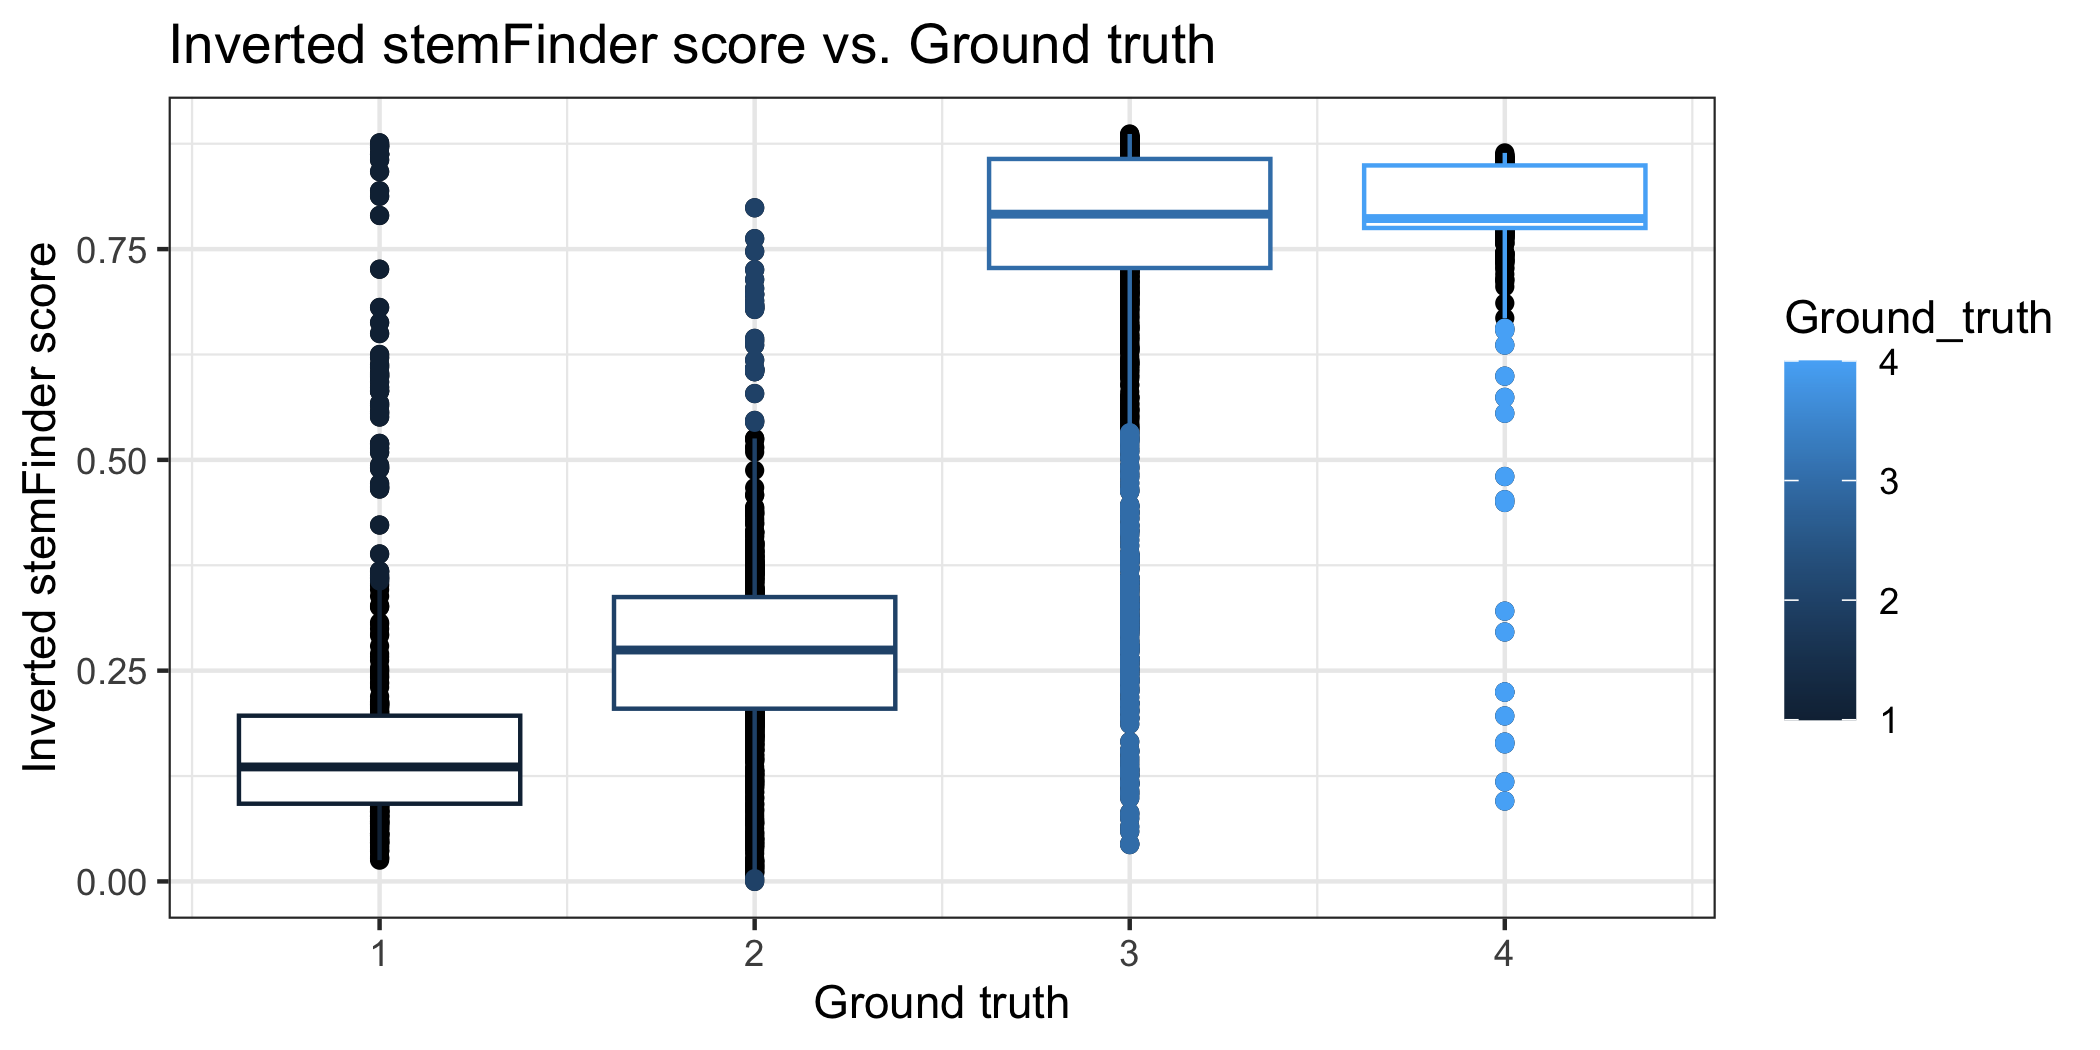
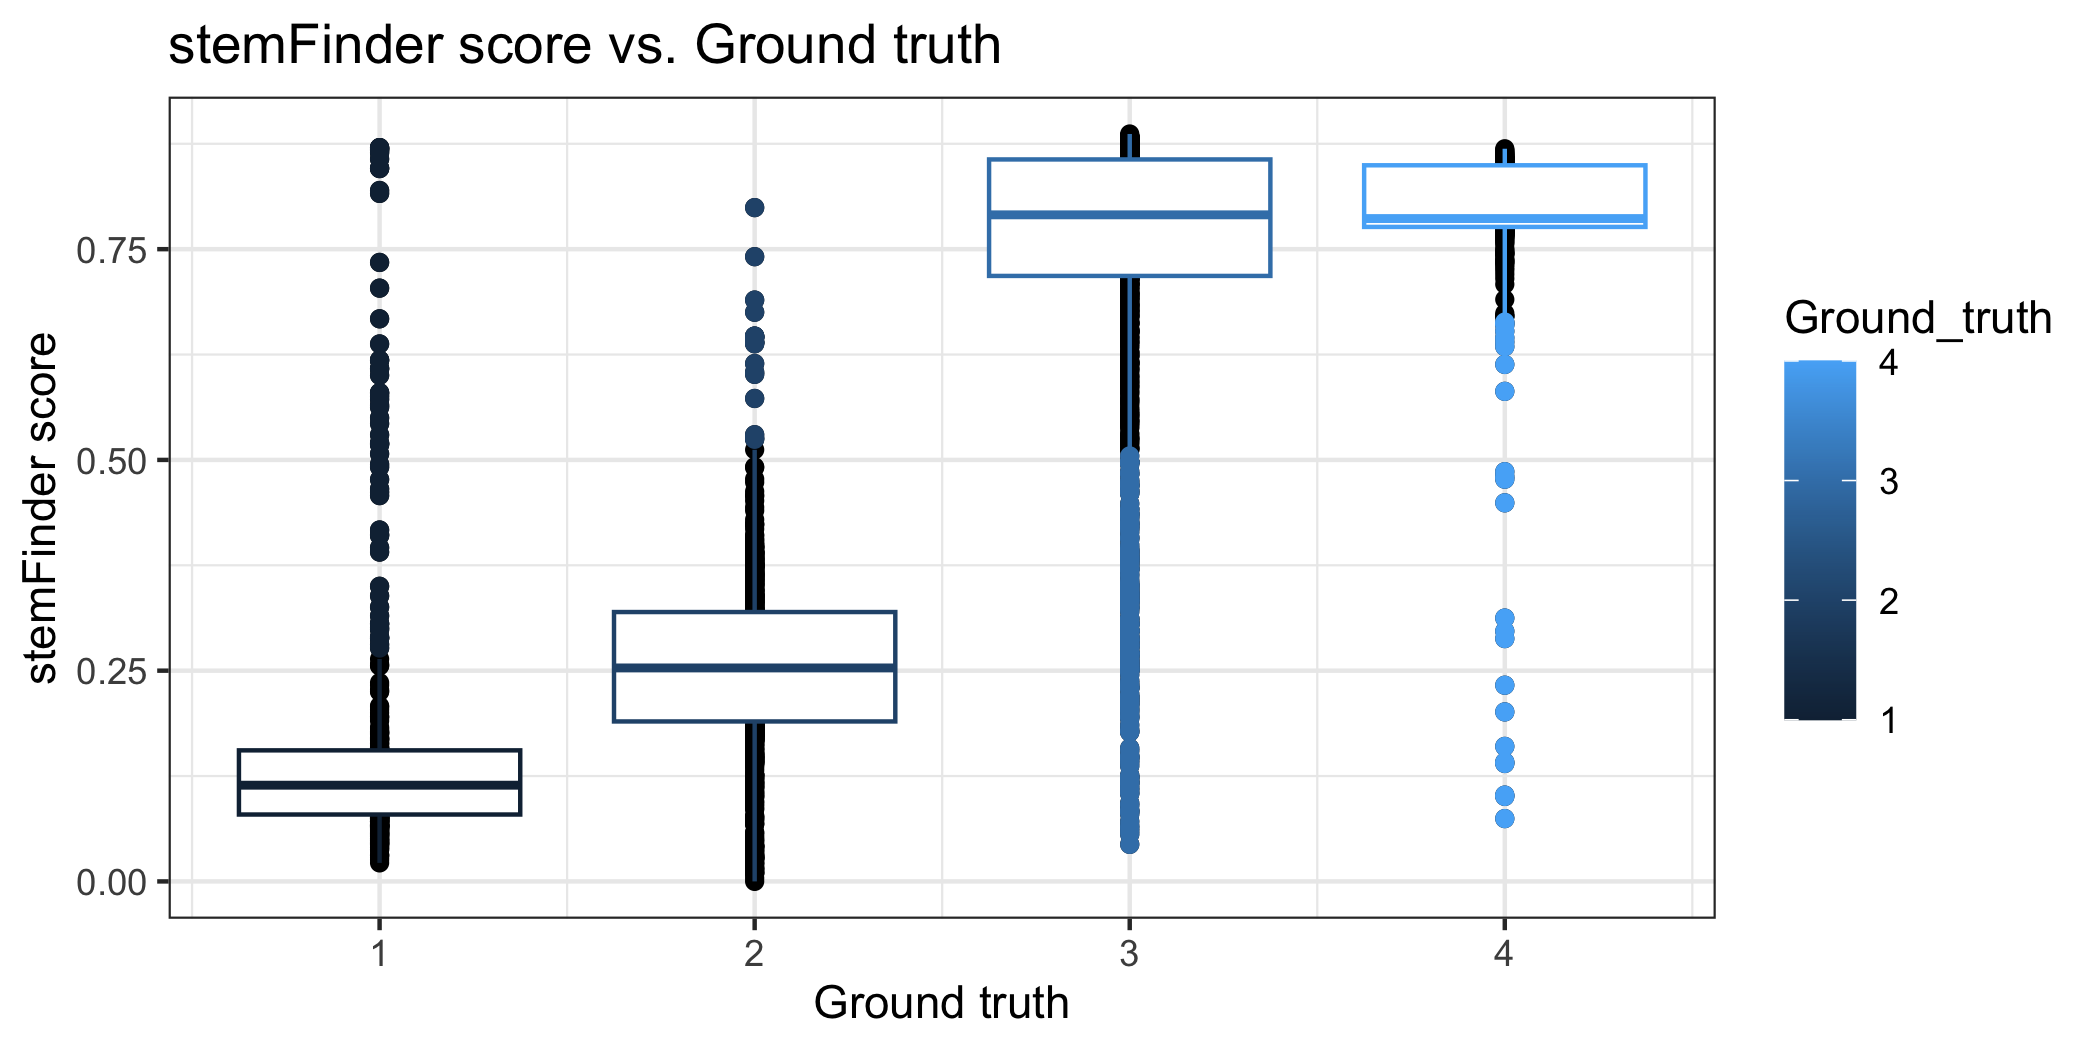
7/18/24

diff --git a/README.md b/README.md
@@ -1,11 +1,11 @@
 stemFinder vignette
 ================
 Kathleen Noller
-06/14/2024
+07/11/2024
 
 # stemFinder
 
-### Single-cell estimation of the extent of differentiation from scRNA-seq data
+### Single-cell estimation of differentiation time from scRNA-seq data
 
 # 
 
@@ -20,17 +20,17 @@ install.packages("devtools")
 
     ## 
     ## The downloaded binary packages are in
-    ##  /var/folders/hb/b7nzqfss2_l63s3qz23cqftr0000gp/T//RtmpKztfmS/downloaded_packages
+    ##  /var/folders/hb/b7nzqfss2_l63s3qz23cqftr0000gp/T//RtmpIbVf5b/downloaded_packages
 
 ``` r
-devtools::install_github("pcahan1/stemfinder")
+devtools::install_github("cahanlab/stemfinder")
 ```
 
-    ## Skipping install of 'stemFinder' from a github remote, the SHA1 (84b438e0) has not changed since last install.
+    ## Skipping install of 'stemFinder' from a github remote, the SHA1 (9b736ea8) has not changed since last install.
     ##   Use `force = TRUE` to force installation
 
 ``` r
-library(stemFinder, verbose = F)
+library(stemFinder)
 ```
 
     ## Loading required package: dplyr
@@ -70,18 +70,6 @@ library(stemFinder, verbose = F)
 
     ## Loading required package: ggplot2
 
-    ## Warning: replacing previous import 'dplyr::select' by 'MASS::select' when
-    ## loading 'stemFinder'
-
-    ## Warning: replacing previous import 'dplyr::union' by 'graph::union' when
-    ## loading 'stemFinder'
-
-    ## Warning: replacing previous import 'dplyr::lag' by 'stats::lag' when loading
-    ## 'stemFinder'
-
-    ## Warning: replacing previous import 'dplyr::filter' by 'stats::filter' when
-    ## loading 'stemFinder'
-
 ## Load query data - Bone marrow from Tabula Muris
 
 #### Query data should be a Seurat object containing a scaled single-cell gene expression matrix
@@ -115,7 +103,13 @@ head(adata,2)
 ## Prepare inputs to stemFinder
 
 ``` r
-#PCA
+# Select input cell cycle gene list
+      ## standard input to stemFinder: G2M and S cell cycle genes
+      ## G2M and S gene lists are provided for mouse, human, and C. elegans
+cell_cycle_genes = c(s_genes_mouse, g2m_genes_mouse)[c(s_genes_mouse, g2m_genes_mouse) %in% rownames(adata)] 
+VariableFeatures(adata) = VariableFeatures(adata)[!(VariableFeatures(adata) %in% cell_cycle_genes)] #make sure cell cycle genes are not among highly variable features
+
+# PCA
 adata <- RunPCA(adata, verbose = F)
 p1 <- ElbowPlot(adata, ndims = 50)
 ```
@@ -130,16 +124,13 @@ pcs = 32
 k = round(sqrt(ncol(adata))) #default value of k parameter
 adata = FindNeighbors(adata, dims = 1:pcs, k.param = k, verbose = F)
 knn = adata@graphs$RNA_nn #KNN matrix
-
-#Select input cell cycle marker gene list
-cell_cycle_genes = c(s_genes_mouse, g2m_genes_mouse)[c(s_genes_mouse, g2m_genes_mouse) %in% rownames(adata)] #default G2M + S cell cycle gene list
 ```
 
 ## Run stemFinder
 
 #### Inputs:
 
-##### adata: Seurat object containing scaled gene expression data (features x cells)
+##### adata: Seurat object containing log-normalized, scaled gene expression data (features x cells)
 
 ##### k: number of nearest neighbors
 
@@ -147,7 +138,7 @@ cell_cycle_genes = c(s_genes_mouse, g2m_genes_mouse)[c(s_genes_mouse, g2m_genes_
 
 ##### thresh: threshold for binarizing gene expression data (default = 0)
 
-##### markers: character vector of cell cycle gene names
+##### markers: character vector of cell cycle genes present in query data
 
 ``` r
 adata = run_stemFinder(adata, k = k, nn = knn, thresh = 0, markers = cell_cycle_genes)
@@ -167,26 +158,24 @@ head(adata,5)
     ## X10X_P7_3_AAACCTGGTCGAACAG Monocyte_progenitors            2          0
     ## X10X_P7_3_AAACCTGTCACTTCAT     Stem_Progenitors            1          0
     ## X10X_P7_3_AAACGGGAGAAGGTTT         Granulocytes            3          0
-    ##                            percent.ribo     S.Score  G2M.Score Phase stemFinder
-    ## X10X_P7_3_AAACCTGAGCATCATC    22.625827  0.33601275  0.3821197   G2M  17.450357
-    ## X10X_P7_3_AAACCTGCAGAGTGTG    24.038992 -0.18945969 -0.3641231    G1   5.141795
-    ## X10X_P7_3_AAACCTGGTCGAACAG    33.631885  0.30172632 -0.1413534     S  15.401308
-    ## X10X_P7_3_AAACCTGTCACTTCAT    33.104142 -0.01163238 -0.3062905    G1  18.712842
-    ## X10X_P7_3_AAACGGGAGAAGGTTT     2.537143 -0.15402552 -0.1239491    G1   2.988407
-    ##                            stemFinder_invert stemFinder_comp
-    ## X10X_P7_3_AAACCTGAGCATCATC         0.1417314      0.18967779
-    ## X10X_P7_3_AAACCTGCAGAGTGTG         0.7471088      0.05588908
-    ## X10X_P7_3_AAACCTGGTCGAACAG         0.2425106      0.16740552
-    ## X10X_P7_3_AAACCTGTCACTTCAT         0.0796380      0.20340045
-    ## X10X_P7_3_AAACGGGAGAAGGTTT         0.8530199      0.03248268
+    ##                            percent.ribo     S.Score  G2M.Score Phase
+    ## X10X_P7_3_AAACCTGAGCATCATC    22.625827  0.33601275  0.3821197   G2M
+    ## X10X_P7_3_AAACCTGCAGAGTGTG    24.038992 -0.18945969 -0.3641231    G1
+    ## X10X_P7_3_AAACCTGGTCGAACAG    33.631885  0.30172632 -0.1413534     S
+    ## X10X_P7_3_AAACCTGTCACTTCAT    33.104142 -0.01163238 -0.3062905    G1
+    ## X10X_P7_3_AAACGGGAGAAGGTTT     2.537143 -0.15402552 -0.1239491    G1
+    ##                            stemFinder_raw stemFinder
+    ## X10X_P7_3_AAACCTGAGCATCATC      18.654875 0.08664202
+    ## X10X_P7_3_AAACCTGCAGAGTGTG       5.315398 0.73975374
+    ## X10X_P7_3_AAACCTGGTCGAACAG      16.387931 0.19763346
+    ## X10X_P7_3_AAACCTGTCACTTCAT      19.251784 0.05741689
+    ## X10X_P7_3_AAACGGGAGAAGGTTT       2.994946 0.85336496
 
-### The following 3 columns are added to metadata:
+### The following 2 columns are added to metadata:
 
-##### -Raw stemFinder score (“stemFinder”)
+##### -Raw stemFinder score (“stemFinder_raw”)
 
-##### -Inverted stemFinder score, corresponding to pseudotime / ground truth (“stemFinder_invert”)
-
-##### -Comparable stemFinder score across datasets (“stemFinder_comp”)
+##### -stemFinder score with directionality corresponding to pseudotime / ground truth (“stemFinder”)
 
 [Check against previously-computed stemFinder results on this
 dataset](https://cnobjects.s3.amazonaws.com/stemFinder/bmmc_sF_results.csv)
@@ -196,12 +185,12 @@ sF_scores = read.csv("bmmc_sF_results.csv", row.names = 1)
 head(sF_scores,5)
 ```
 
-    ##                            stemFinder stemFinder_invert stemFinder_comp
-    ## X10X_P7_3_AAACCTGAGCATCATC  17.193335        0.15611517      0.18688408
-    ## X10X_P7_3_AAACCTGCAGAGTGTG   5.174950        0.74600265      0.05624945
-    ## X10X_P7_3_AAACCTGGTCGAACAG  15.202528        0.25382815      0.16524487
-    ## X10X_P7_3_AAACCTGTCACTTCAT  18.691755        0.08256958      0.20317125
-    ## X10X_P7_3_AAACGGGAGAAGGTTT   3.007756        0.85237303      0.03269300
+    ##                            stemFinder_raw stemFinder
+    ## X10X_P7_3_AAACCTGAGCATCATC      18.654875 0.08664202
+    ## X10X_P7_3_AAACCTGCAGAGTGTG       5.315398 0.73975374
+    ## X10X_P7_3_AAACCTGGTCGAACAG      16.387931 0.19763346
+    ## X10X_P7_3_AAACCTGTCACTTCAT      19.251784 0.05741689
+    ## X10X_P7_3_AAACGGGAGAAGGTTT       2.994946 0.85336496
 
 ## Quantify stemFinder performance relative to ground truth
 
@@ -218,8 +207,8 @@ list_all = compute_performance_single(adata, competitor = F)
 pct.recov = pct_recover(adata)
 ```
 
-    ## [1] "Percentage highly potent cells recovered by stemFinder: 82.9573934837093"
-    ## [1] "Relative abundance of highly potent cells: 11.6428362999708"
+    ## [1] "Percentage of cells with low degree of differentiation recovered by stemFinder: 84.7117794486216"
+    ## [1] "Relative abundance of cells with low degree of differentiation: 11.6428362999708"
 
 ## Optional: compare stemFinder performance to another method
 
@@ -238,9 +227,10 @@ head(comp_scores,2)
 
 ``` r
 adata@meta.data = cbind(adata@meta.data, comp_scores) #add to metadata
+adata$competitor = adata$ccat_invert #rename desired competitor column 
 
 #Quantify performance
-list_all_withcomp = compute_performance_single(adata, competitor = T, comp_id = 'CytoTRACE') 
+list_all_withcomp = compute_performance_single(adata, competitor = T, comp.inverted = T)
 ```
 
     ## [1] "Single-cell Spearman Correlation, stemFinder: 0.74"
@@ -253,26 +243,26 @@ print(list_all_withcomp)
 
     ## $`stemFinder results`
     ## Spearman_SingleCell      Spearman_Pheno                 AUC 
-    ##           0.7362893           0.8866655           0.9698956 
+    ##           0.7428144           0.8883756           0.9724200 
     ## 
     ## $`Competitor results`
     ## Spearman_SingleCell      Spearman_Pheno                 AUC 
-    ##           0.5712992           0.6307109           0.8847005
+    ##           0.6755672           0.7783368           0.9298890
 
 ## Visualize stemFinder and competitor results
 
-##### UMAP embedding
+##### Feature plot
 
 ``` r
-p2 <- FeaturePlot(adata, features = c('Ground_truth','stemFinder_invert','CytoTRACE_invert','ccat_invert'), cols = c('blue','red'), ncol = 2)
+p2 <- FeaturePlot(adata, features = c('Ground_truth','stemFinder','competitor'), cols = c('blue','red'), ncol = 3)
 ```
 
 <img src="figure/stemFinder-unnamed-chunk-12-1.png" style="display: block; margin: auto;" />
 
-##### Box plot of inverted stemFinder score
+##### Box plot
 
 ``` r
-p3 <- ggplot(adata@meta.data, aes(x = Ground_truth, y = stemFinder_invert)) + geom_point() + geom_boxplot(aes(group = Ground_truth, color = Ground_truth)) + theme_bw() + ggtitle("Inverted stemFinder score vs. Ground truth") + ylab("Inverted stemFinder score") + xlab("Ground truth")
+p3 <- ggplot(adata@meta.data, aes(x = Ground_truth, y = stemFinder)) + geom_point() + geom_boxplot(aes(group = Ground_truth, color = Ground_truth)) + theme_bw() + ggtitle("stemFinder score vs. Ground truth") + ylab("stemFinder score") + xlab("Ground truth")
 ```
 
 <img src="figure/stemFinder-unnamed-chunk-14-1.png" style="display: block; margin: auto;" />
